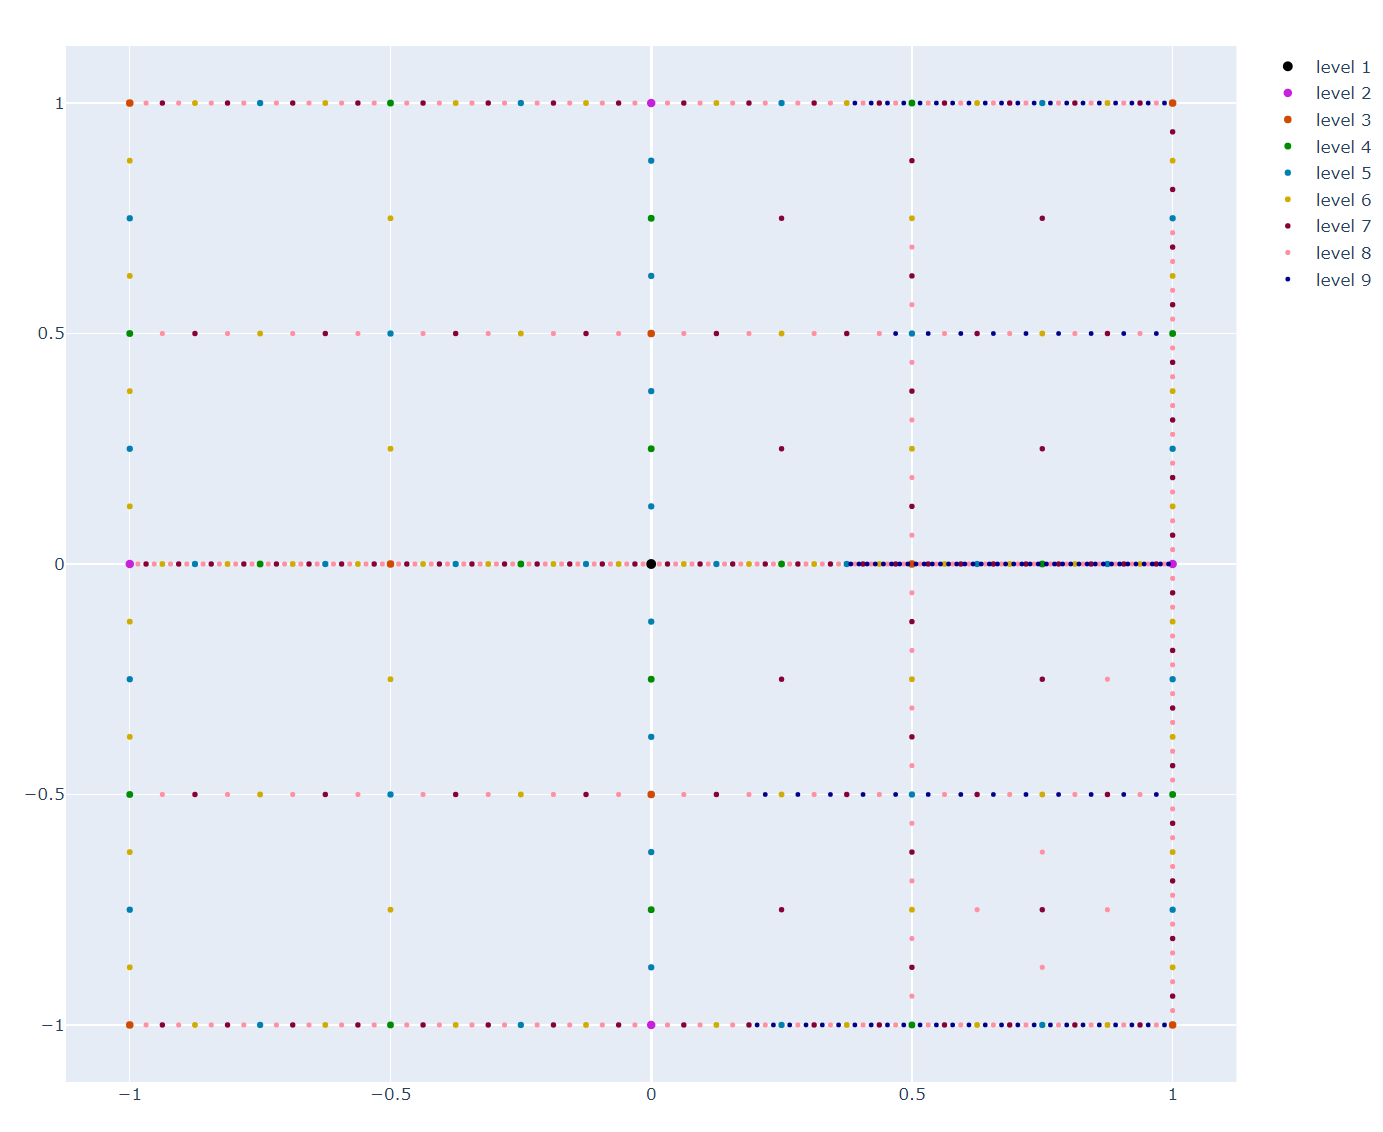
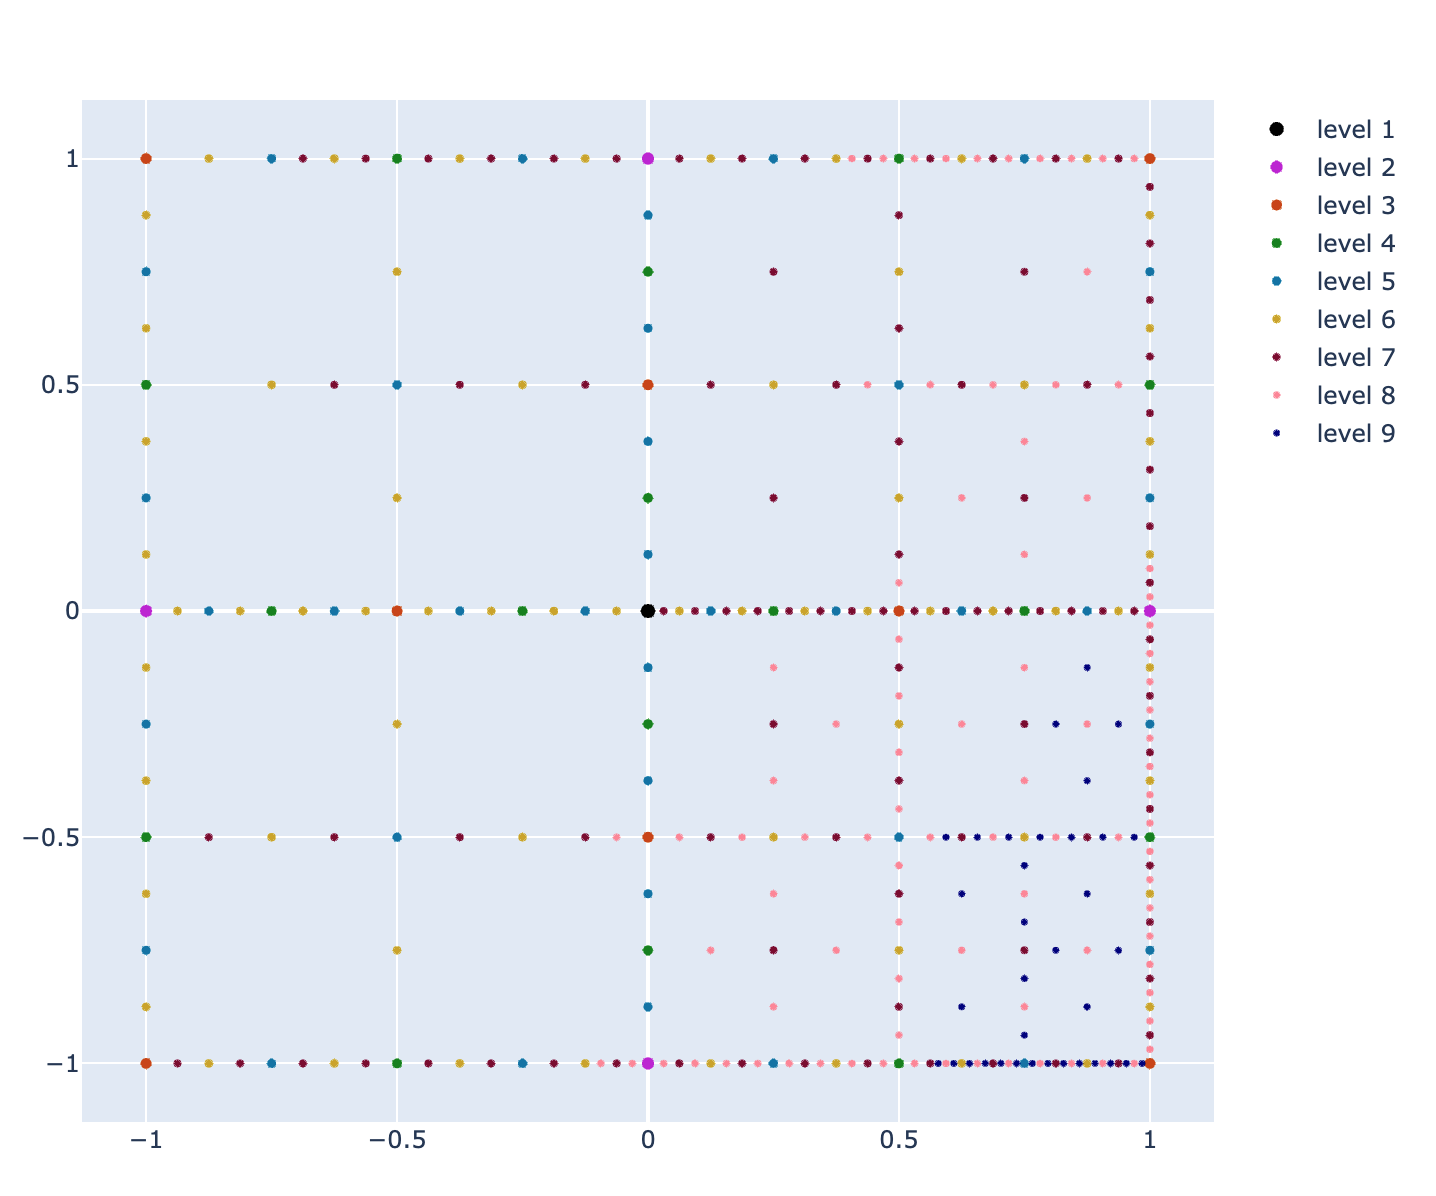
update ex1

diff --git a/docs/src/index.md b/docs/src/index.md
@@ -48,7 +48,7 @@ creates an xml-file which defines the so-called `StochasticOGSModelParams`. It i
 - the number of local workers `n_local_workers`, and, 
 - the filename `sogsfile` under which the model is stored as an xml-file. 
 
-This function also creates a file [`user_function.jl`](https://github.com/baxmittens/OpenGeoSysUncertaintyQuantification.jl/blob/main/src/OpenGeoSysUncertaintyQuantification/user_function_template.jl) which is loaded by all workers and serves as an interface between OGS6 and Julia. Here it is defined how the individual snaptshots are generated and how the postprocessing results are handled.
+This function also creates a file [`user_function.jl`](https://github.com/baxmittens/OpenGeoSysUncertaintyQuantification.jl/blob/main/src/OpenGeoSysUncertaintyQuantification/user_function_template.jl) if not already available, which is loaded by all workers and serves as an interface between OGS6 and Julia. Here it is defined how the individual snaptshots are generated and how the postprocessing results are handled.
 
 The third and last function
 
@@ -75,47 +75,43 @@ In this chapter, [Example 1](https://github.com/baxmittens/OpenGeoSysUncertainty
 The following [lines of code](https://github.com/baxmittens/OpenGeoSysUncertaintyQuantification.jl/blob/main/test/ex1/generate_stoch_params_file.jl) 
 ```julia
 using OpenGeoSysUncertaintyQuantification
+
 projectfile="./project/point_heat_source_2D.prj"
 pathes = generatePossibleStochasticParameters(projectfile)
+
+porosity_ind = findfirst(x->contains(x,"@id/0") && contains(x,"porosity"), pathes)
+liquid_th_cond_ind = findfirst(x->contains(x,"@id/0") && contains(x,"AqueousLiquid") && contains(x,"thermal_conductivity"), pathes)
+
+writeStochasticParameters(pathes[[porosity_ind, liquid_th_cond_ind]], "./StochasticParameters.xml")
 ```
-return an array of strings with [`OGS6-XML-pathes`](https://github.com/baxmittens/Ogs6InputFileHandler.jl/blob/63944f2bcc54238af568f5f892677925ba171d5a/src/Ogs6InputFileHandler/utils.jl#L51) and generates an XML-file [`PossibleStochasticParameters.xml`](https://github.com/baxmittens/OpenGeoSysUncertaintyQuantification.jl/blob/main/test/ex1/PossibleStochasticParameters.xml) in the working directory
+generate the stochastic parameters as [`OGS6-XML-pathes`](https://github.com/baxmittens/Ogs6InputFileHandler.jl/blob/63944f2bcc54238af568f5f892677925ba171d5a/src/Ogs6InputFileHandler/utils.jl#L51). These are then written to a XML file `PossibleStochasticParameters.xml` in the working directory
 
 ```xml
 <?xml version="1.0" encoding="UTF-8"?>
 <Array
 	 julia:type="String,1"
 >
-	./media/medium/@id/0/phases/phase/?AqueousLiquid/properties/property/?specific_heat_capacity/value
+	./media/medium/@id/0/properties/property/?porosity/value
 	./media/medium/@id/0/phases/phase/?AqueousLiquid/properties/property/?thermal_conductivity/value
-			.
-			.
-			.
-	./parameters/parameter/?displacement0/values
-	./parameters/parameter/?pressure_ic/values
 </Array>
 ```
-where all parameters possible to select as stochastic parameter are mapped. Since, in this example, an adaptive sparse grid collocation sampling shall be adopted, only two parameters, the porosity and the thermal conductivity of the aqueous liquid,
-```
-./media/medium/@id/0/properties/property/?porosity/value
-./media/medium/@id/0/phases/phase/?AqueousLiquid/properties/property/?thermal_conductivity/value
-```
-are selected. Thus, all other parameters are deleted from the file. The resulting xml-file is stored as [`altered_PossibleStochasticParameters.xml`](https://github.com/baxmittens/OpenGeoSysUncertaintyQuantification.jl/blob/main/test/ex1/altered_PossibleStochasticParameters.xml) in the working directory.
 
 ### Defining the stochastic model
 
 The following [code snippet](https://github.com/baxmittens/OpenGeoSysUncertaintyQuantification.jl/blob/main/test/ex1/generate_stoch_model.jl) 
 ```julia
 using OpenGeoSysUncertaintyQuantification
+
 projectfile="./project/point_heat_source_2D.prj"
-simcall="/path/to/ogs/bin/ogs"
+simcall="ogs" # ogs binary has to be in path. otherwise insert your "path/to/ogs"
 additionalprojecfilespath="./mesh"
 outputpath="./Res"
-postprocfiles=["PointHeatSource_ts_10_t_50000.000000.vtu"]
+postprocfiles=["PointHeatSource_quarter_002_2nd.xdmf"]
 outputpath="./Res"
 stochmethod=AdaptiveHierarchicalSparseGrid
-n_local_workers=50
+n_workers = 10
 
-stochparampathes = loadStochasticParameters("altered_PossibleStochasticParameters.xml")
+stochparampathes = loadStochasticParameters("StochasticParameters.xml")
 	
 stochasticmodelparams = generateStochasticOGSModell(
 	projectfile,
@@ -125,32 +121,36 @@ stochasticmodelparams = generateStochasticOGSModell(
 	stochparampathes,
 	outputpath,
 	stochmethod,
-	n_local_workers) # generate the StochasticOGSModelParams
+	n_workers)
 
-samplemethodparams = generateSampleMethodModel(stochasticmodelparams) # generate the SampleMethodParams
+# alter the stochastic parameters
+stoch_params = stoch_parameters(stochasticmodelparams)
+@assert contains(stoch_params[1].path, "AqueousLiquid")
+stoch_params[1].dist = Normal(0.6,0.175)
+stoch_params[1].lower_bound = 0.3
+stoch_params[1].upper_bound = 0.9
+stoch_params[2].dist = Normal(0.45,0.15)
+stoch_params[2].lower_bound = 0.1
+stoch_params[2].upper_bound = 0.8
+
+write(stochasticmodelparams)
+
+samplemethodparams = generateSampleMethodModel(stochasticmodelparams)
+
+#alter sample method params
+samplemethodparams.RT = XDMFData #according to `fun` user_functions.jl
+samplemethodparams.init_lvl = 4
+samplemethodparams.maxlvl = 12
+samplemethodparams.tol = 0.025
+
+write(samplemethodparams)
 ```
 
 generates two XML-files, [`StochasticOGSModelParams.xml`](https://github.com/baxmittens/OpenGeoSysUncertaintyQuantification.jl/blob/main/test/ex1/StochasticOGSModelParams.xml) and [`SampleMethodParams.xml`](https://github.com/baxmittens/OpenGeoSysUncertaintyQuantification.jl/blob/main/test/ex1/SampleMethodParams.xml), defining the stochastic model.
 
-Again, these files are altered and stored under [`altered_StochasticOGSModelParams.xml`](https://github.com/baxmittens/OpenGeoSysUncertaintyQuantification.jl/blob/main/test/ex1/altered_StochasticOGSModelParams.xml) and [`altered_SampleMethodParams.xml`](https://github.com/baxmittens/OpenGeoSysUncertaintyQuantification.jl/blob/main/test/ex1/altered_SampleMethodParams.xml).
+In the former, the two stochastic parameters are altered. The probability distributions are altered from `Uniform` to `Normal` with mean `μ=0.45` and standard deviation `σ=0.15` for the porosity and to `Normal` with mean `μ=0.6` and standard deviation `σ=0.175` for the thermal conductivity.
 
-In the former, the two stochastic parameters are altered. The probability distribution of the porosity is changed from `Uniform` to `Normal` with mean `μ=0.375` and standard deviation `σ=0.1`.
-```xml
-<StochasticOGS6Parameter
-	 path="./media/medium/@id/0/properties/property/?porosity/value"
-	 valspec="1"
-	 lower_bound="0.15"
-	 upper_bound="0.60"
->
-	<Normal
-		 julia:type="Float64"
-		 julia:fieldname="dist"
-		 μ="0.375"
-		 σ="0.1"
-	/>
-</StochasticOGS6Parameter>
-```
-Note that for efficiency, the normal distribution is changed to a [truncated normal distribution](https://en.wikipedia.org/wiki/Truncated_normal_distribution) by the parameters `lower_bound=0.15` and `upper_bound=0.60`. This results in an integration error of approximately 2.5% for this example. See the picture below for a visualization of the normal distribution $\mathcal{N}$ and the truncated normal distribution $\bar{\mathcal{N}}$.
+Note that for efficiency, the normal distribution is changed to a [truncated normal distribution](https://en.wikipedia.org/wiki/Truncated_normal_distribution) by setting the parameters `lower_bound=0.1` and `upper_bound=0.8` for the porosity and `lower_bound=0.3` and `upper_bound=0.9` for the thermal conductivity. This results in an integration error of approximately 2.5% for this example. See the picture below for a visualization of the normal distribution $\mathcal{N}$ and the truncated normal distribution $\bar{\mathcal{N}}$.
 
 ```@raw html
 <p align="center">
@@ -158,7 +158,7 @@ Note that for efficiency, the normal distribution is changed to a [truncated nor
 </p>
 ```
 
-The second parameter, the thermal conductivity, is set up as a truncated normal distribution with mean `μ=0.6`, standard deviation `σ=0.05`, `lower_bound=0.5`, and, `upper_bound=0.7`. The multivariate truncated normal distribution resulting from the convolution of both one-dimensional distributions is pictured below. Note, that the distribution has been transformed to the domain $[-1,1]^2$ of the [sparse grid](https://github.com/baxmittens/DistributedSparseGrids.jl).
+The multivariate truncated normal distribution resulting from the convolution of both one-dimensional distributions is pictured below. Note, that the distribution has been transformed to the domain $[-1,1]^2$ of the [sparse grid](https://github.com/baxmittens/DistributedSparseGrids.jl).
 
 ```@raw html
 <p align="center">
@@ -166,12 +166,12 @@ The second parameter, the thermal conductivity, is set up as a truncated normal 
 </p>
 ```
 
-The second file [`altered_SampleMethodParams.xml`](https://github.com/baxmittens/OpenGeoSysUncertaintyQuantification.jl/blob/main/test/ex1/altered_SampleMethodParams.xml) defines the sample method parameters such as
+The second file [`SampleMethodParams.xml`](https://github.com/baxmittens/OpenGeoSysUncertaintyQuantification.jl/blob/main/test/ex1/altered_SampleMethodParams.xml) defines the sample method parameters such as
 - the number of dimensions `N=2`,
-- the return type `RT="VTUFile"` (see [VTUFileHandler.jl](https://github.com/baxmittens/VTUFileHandler.jl))
+- the return type `RT="XDMFData"` (see [XDMFFileHandler.jl](https://github.com/baxmittens/XDMFFileHandler.jl))
 - the number of initial hierachical level of the sparse grid `init_lvl=4`,
-- the number of maximal hierarchical level of the sparse grid `maxlvl=20`, and,
-- the minimum hierarchical surplus for the adaptive refinement `tol=0.01`.
+- the number of maximal hierarchical level of the sparse grid `maxlvl=12`, and,
+- the minimum hierarchical surplus for the adaptive refinement `tol=0.025`.
 
 ### Sampling the model
 
@@ -179,7 +179,7 @@ The following [lines of code](https://github.com/baxmittens/OpenGeoSysUncertaint
 
 ```julia
 using OpenGeoSysUncertaintyQuantification
-ogsuqparams = OGSUQParams("altered_StochasticOGSModelParams.xml", "altered_SampleMethodParams.xml")
+ogsuqparams = OGSUQParams("StochasticOGSModelParams.xml", "SampleMethodParams.xml")
 ogsuqasg = init(ogsuqparams)
 start!(ogsuqasg)
 ```
@@ -188,7 +188,7 @@ load the parameters `ogsuqparams`, initializes the model `ogsuqasg`, and, starts
 
 * Initializing the model `OpenGeoSysUncertaintyQuantification.init(ogsuqparams)` consists of two steps
 	
-    1. Adding all local workers (in this case 50 local workers)
+    1. Adding all local workers (in this case 10 local workers)
     2. Initializing the adaptive sparse grid.
 
 * Starting the sampling procedure `OpenGeoSysUncertaintyQuantification.start!(ogsuqasg)` first creates 4 initial hierarchical levels levels and, subsequently, starts the adaptive refinement. This first stage results in an so-called *surrogate model* of the physical domain defined by the boundaries of the stochastic parameters
@@ -210,19 +210,15 @@ load the parameters `ogsuqparams`, initializes the model `ogsuqasg`, and, starts
 </tr></table>
 ```
 
-
-
 ### Computation of the expected value
 
 The expected value of an stochastic OGS project can be computed by:
 ```julia
-import VTUFileHandler
 expval,asg_expval = 𝔼(ogsuqasg)
-VTUFileHandler.rename!(expval,"expval_heatpointsource.vtu")
-write(expval)
+write(expval, "expval.xdmf", "expval.h5")
 ```
 
-Hereby, the physical surrogate model, generated by the sampling of the model, is weighted against the pdf of each stochastic dimension. The resulting sparse grid and the response function (by taking the `LinearAlgebra.norm(::VTUFile)`) can be seen below.
+Hereby, the physical surrogate model, generated by the sampling of the model, is weighted against the pdf of each stochastic dimension. The resulting sparse grid and the response function (by showing the the maximal temperature in the domain per collocation point) can be seen below.
 ```@raw html
 <table border="0"><tr>
 <td> 
